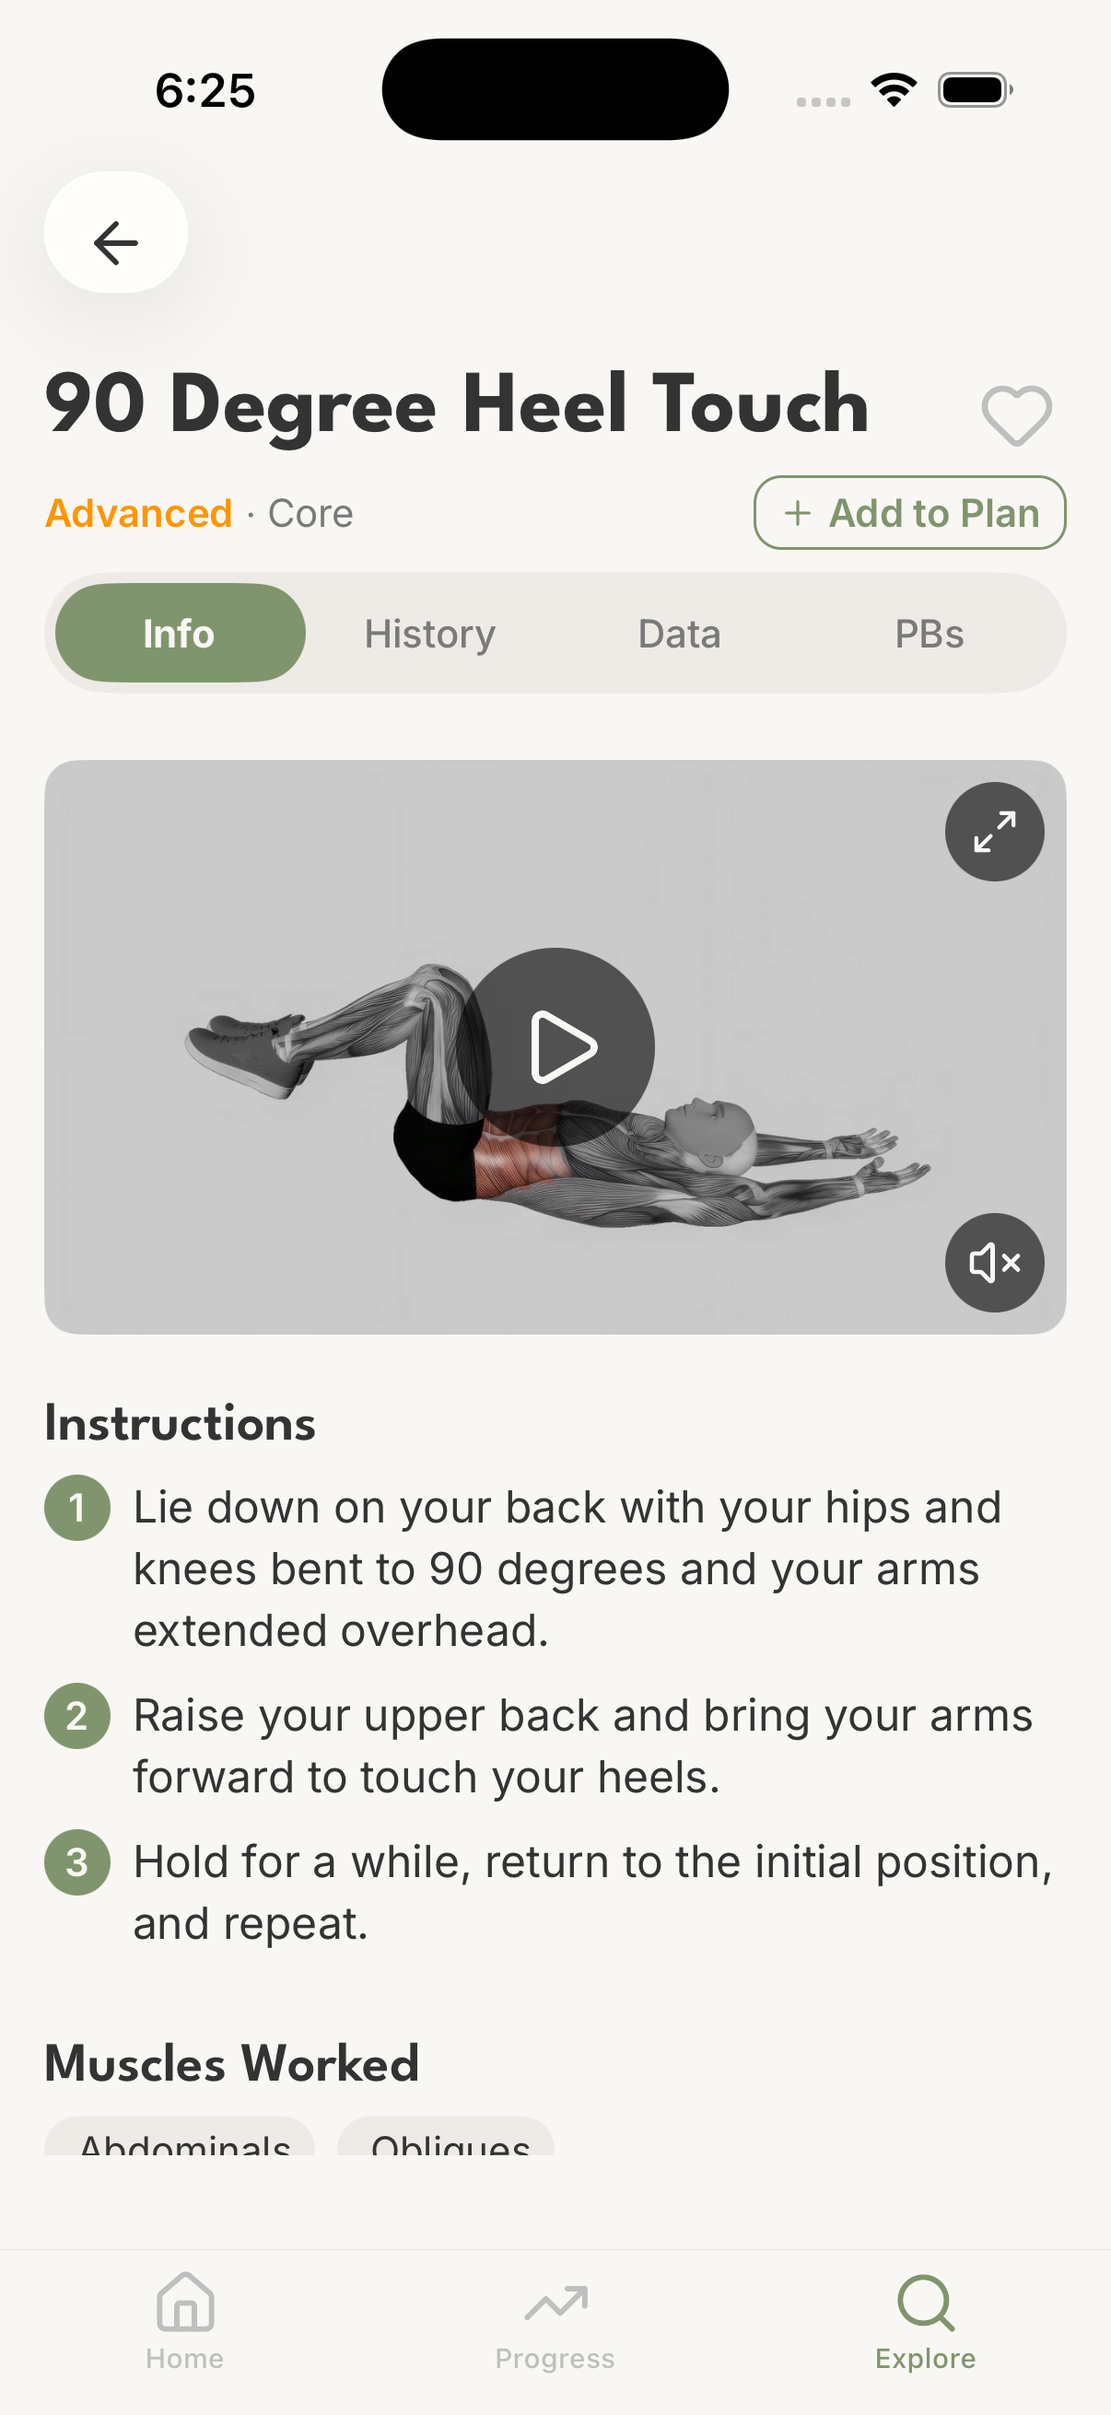
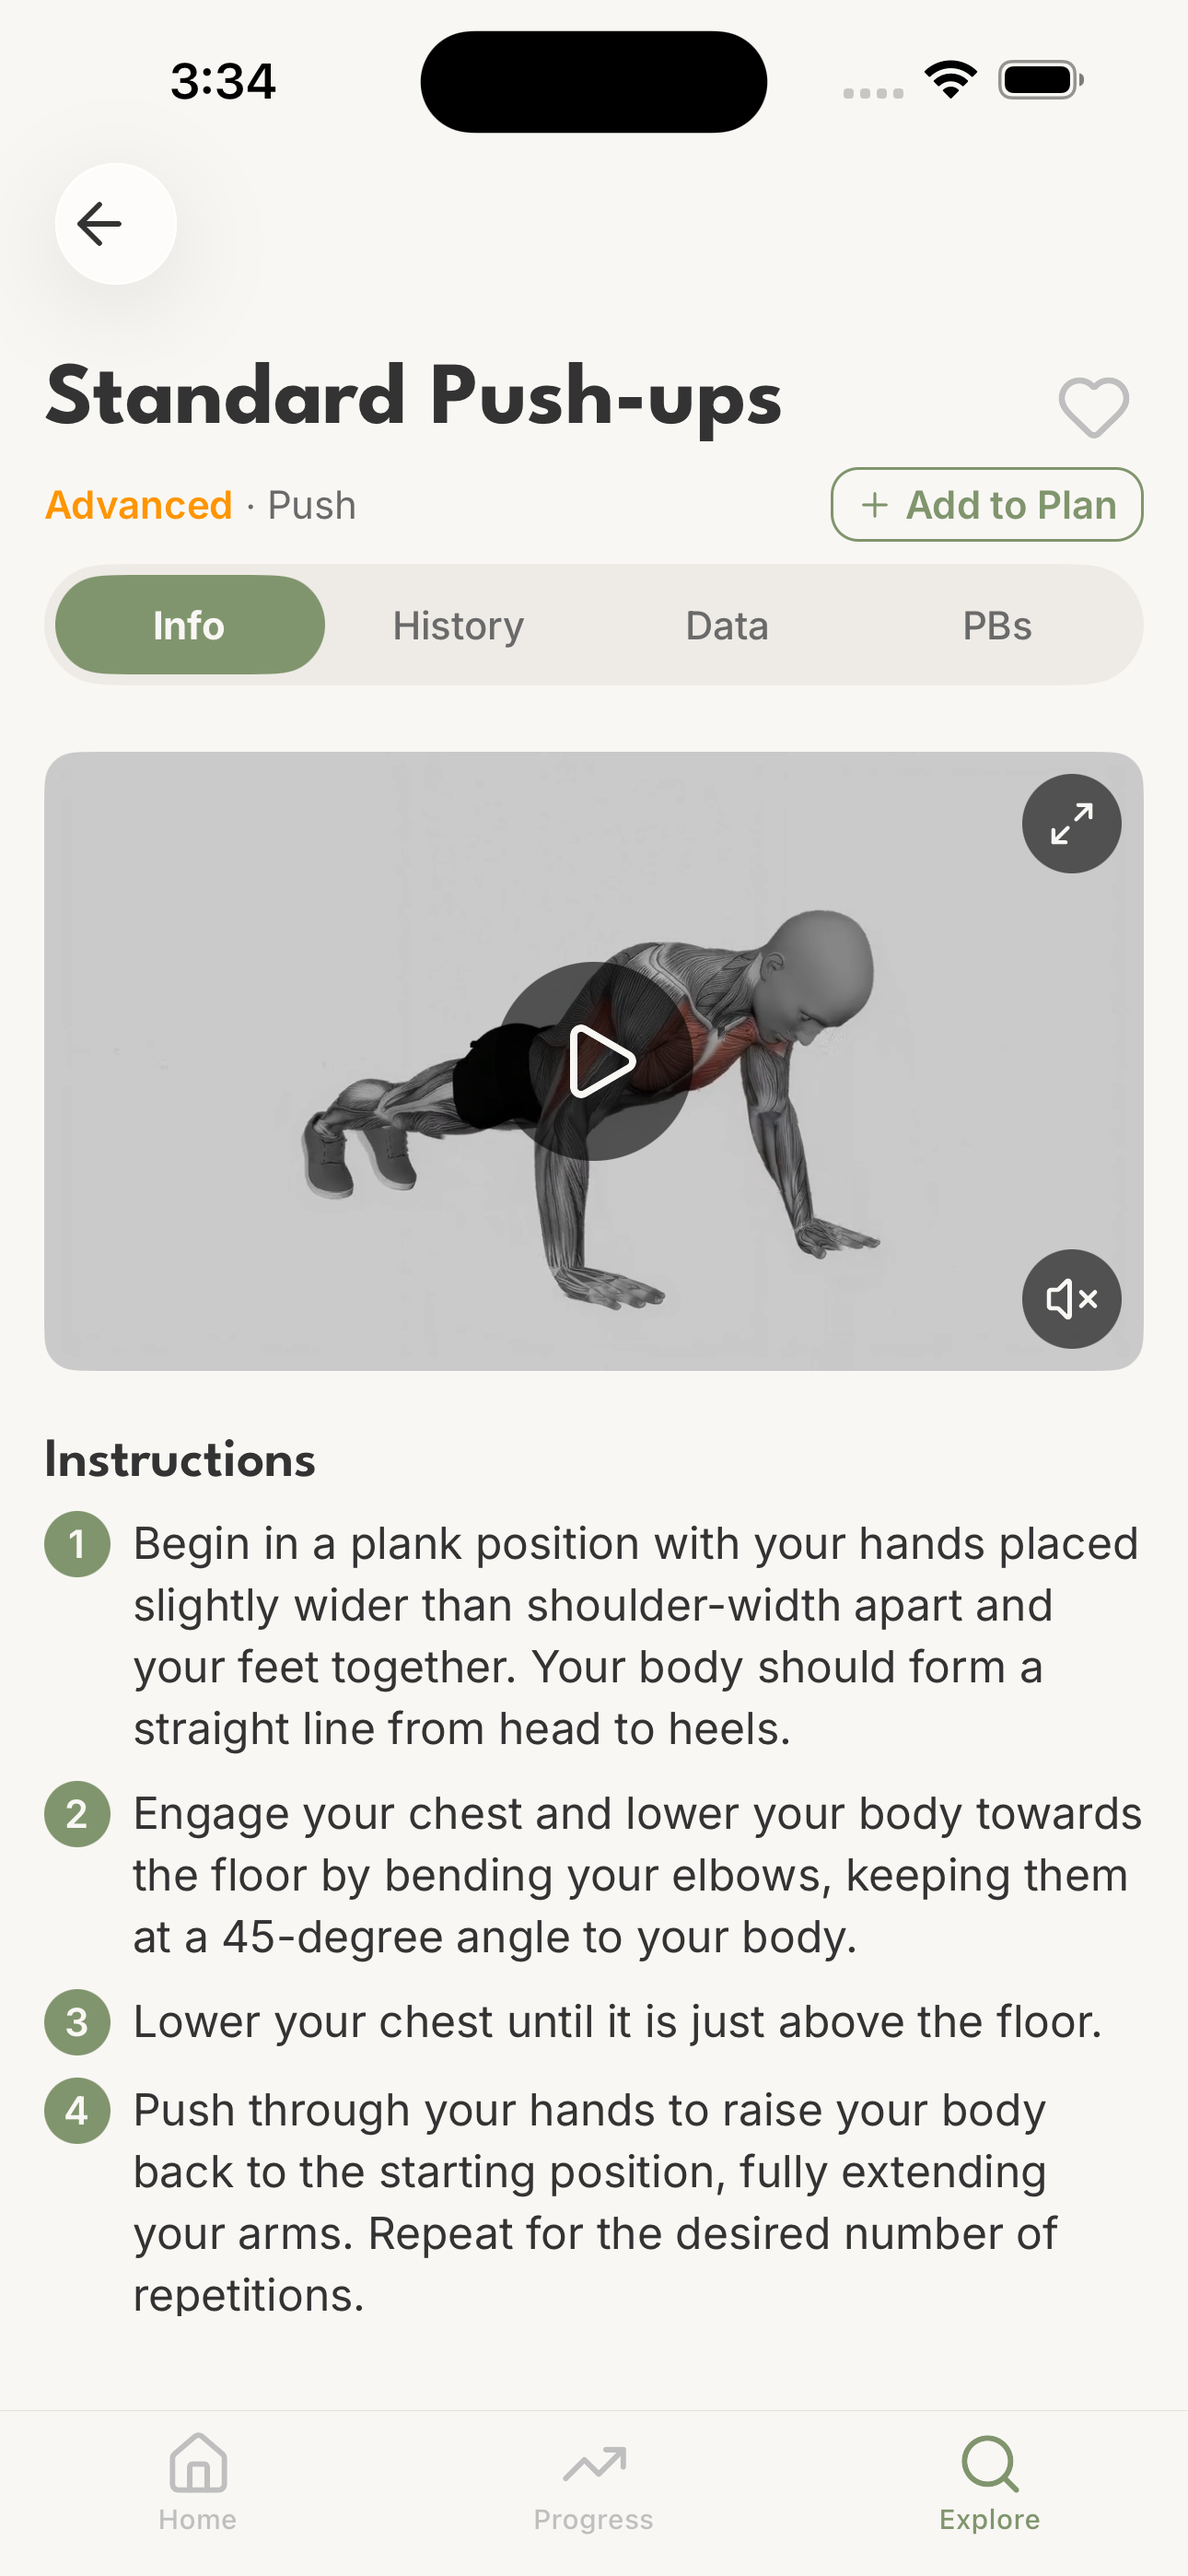
Update 3 screenshots with newer v2 app captures
- home.png: now shows 2 goals (Push-ups + Pull-up) with workout tags
- exercise-detail.png: Standard Push-ups instead of 90 Degree Heel Touch
- swap.png: Pushup Progress with sage/green brand colors instead of coral
- Update alt text to match new screenshot content

diff --git a/src/app/features/page.tsx b/src/app/features/page.tsx
@@ -195,7 +195,7 @@ export default function FeaturesPage() {
                 <div className="mx-auto max-w-[280px] overflow-hidden rounded-3xl border border-charcoal/[0.06] shadow-lg transition-transform duration-300 hover:scale-[1.02]">
                   <Image
                     src="/screenshots/swap.png"
-                    alt="Goal progression screen showing skill ladder from beginner to advanced"
+                    alt="Push-ups progress screen showing bit goals progression chain and workout stats"
                     width={603}
                     height={1191}
                     className="w-full"
@@ -272,7 +272,7 @@ export default function FeaturesPage() {
                 <div className="mx-auto max-w-[280px] overflow-hidden rounded-3xl border border-charcoal/[0.06] shadow-lg transition-transform duration-300 hover:scale-[1.02]">
                   <Image
                     src="/screenshots/exercise-detail.png"
-                    alt="Exercise detail screen showing video demo, step-by-step instructions, and muscles worked"
+                    alt="Standard Push-ups exercise detail showing video demo, step-by-step instructions, and difficulty level"
                     width={603}
                     height={1191}
                     className="w-full"

diff --git a/src/components/AppShowcase.tsx b/src/components/AppShowcase.tsx
@@ -6,7 +6,7 @@ import Image from "next/image";
 const slides = [
   {
     src: "/screenshots/home.png",
-    alt: "Home screen showing today's workout, upcoming sessions, and your goals",
+    alt: "Home screen showing today's workout with exercise tags, next session, and your goals for Push-ups and Pull-ups",
     title: "A plan built just for you",
     description:
       "Your workouts adapt to your goals, fitness level, and equipment \u2014 updated after every session.",
